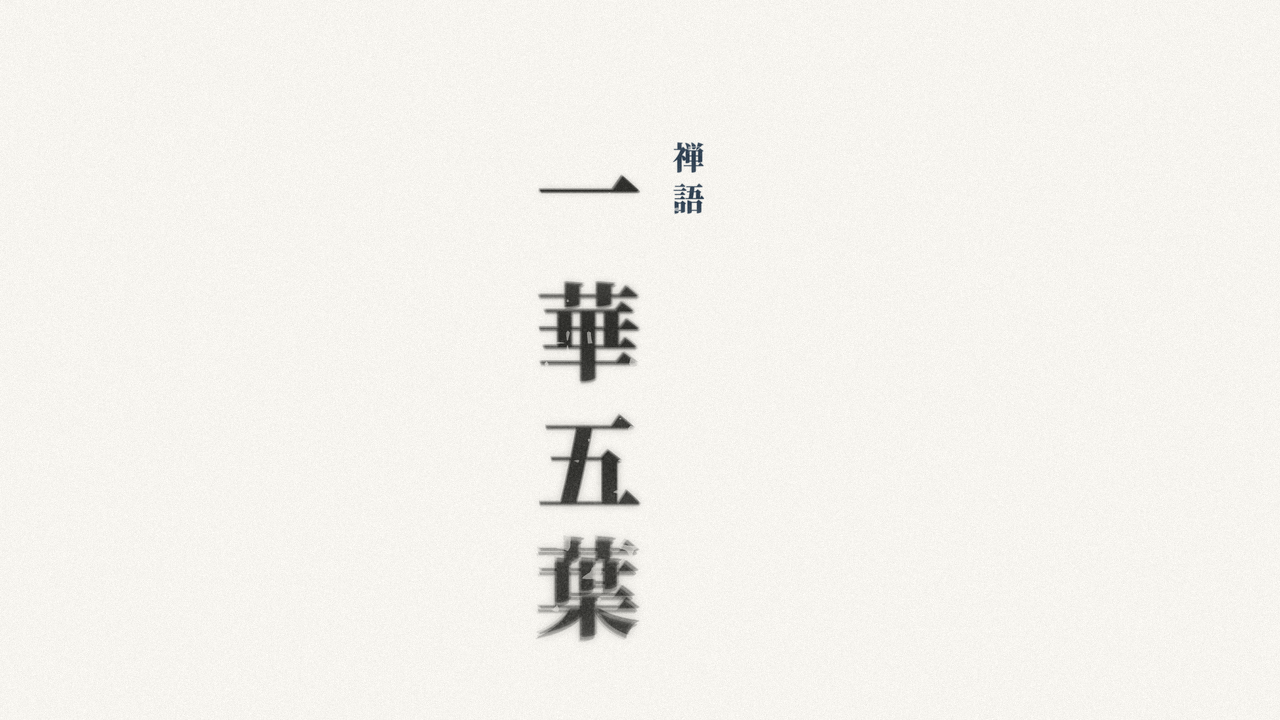
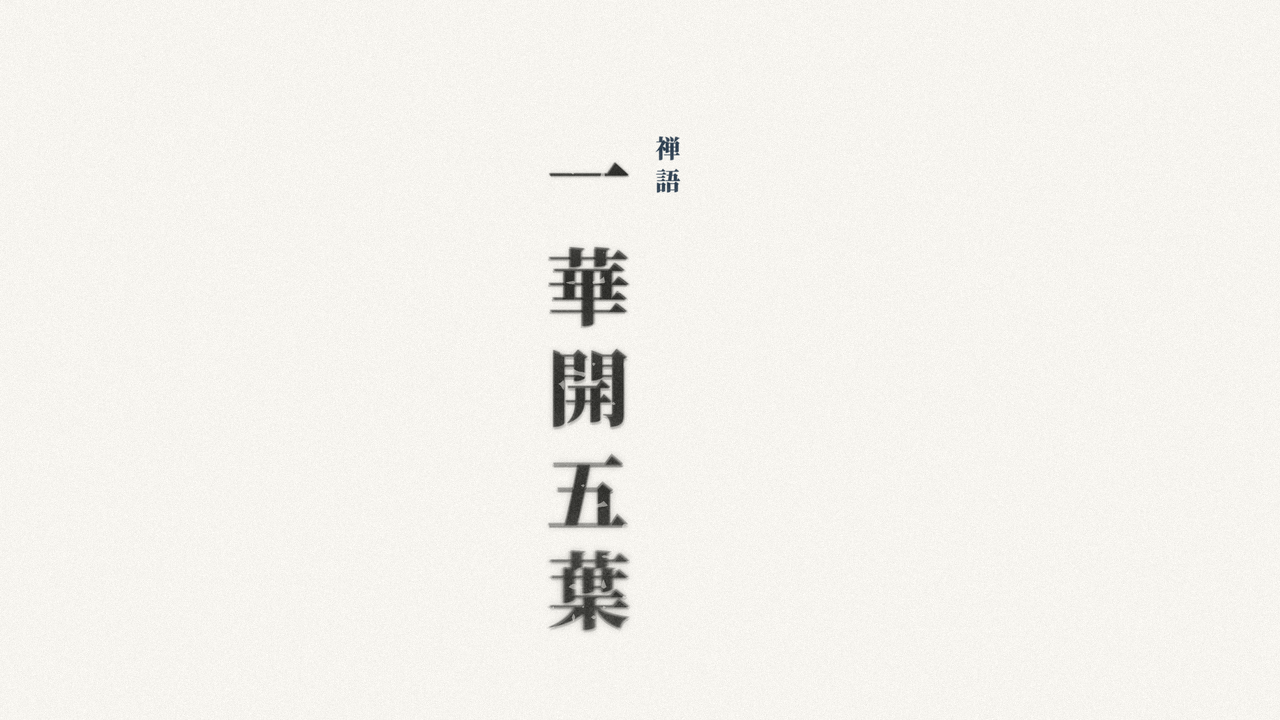
Add cover generator to repo; regenerate ikkegoyo as 一華開五葉 (5 chars)
Bring build_covers.py into tools/ (font NotoSerifCJK-Black, deps
numpy/scipy/Pillow), made runnable per-slug and writing to
articles/covers/. Regenerate the ikkegoyo cover with the full phrase
一華開五葉 in a single vertical column — the auto glyph-sizing keeps it
balanced at 1280x720. Update covers/README and the production standard
(font confirmed, generator now in-repo). Future longer phrases: judged
case by case, but keep the full phrase on the cover.

Claude-Session: https://claude.ai/code/session_01DScqs38ta8rsHtdJegZ2ah

Changed region(s): [[0.4062, 0.3361, 0.5, 0.8861], [0.4062, 0.1833, 0.5625, 0.3056]]

diff --git a/tools/build_covers.py b/tools/build_covers.py
@@ -1,0 +1,202 @@
+"""
+禅語シリーズ カバー画像生成 (雨シリーズのリファレンス画像を参考に再現)
+- 背景 #F7F5F0 / 本文墨色 #2B2B28 / アクセント #2C3E50
+- 縦書きの禅語タイトル(大)+「禅語」ラベル(小)
+- 筆致テクスチャ: 輪郭ジッター、擦れ(dry-brush)、にじみ(ink bleed)、太細(pressure taper)
+- 4倍スーパーサンプリング -> LANCZOSダウンサンプル
+- 字数に応じて字サイズを自動調整するため、縦1列のまま任意の字数に対応
+  （長い禅語はカバーも正式名のまま。表記は削らない。docs/article-production-standard.md 参照）
+
+使い方:
+  python3 tools/build_covers.py            # jobs 全件を articles/covers/ に生成
+  python3 tools/build_covers.py ikkegoyo   # 指定スラッグのみ再生成
+  COVER_OUT_DIR=/path python3 tools/build_covers.py   # 出力先を上書き
+
+依存: numpy, scipy, Pillow / フォント: NotoSerifCJK-Black.ttc
+"""
+import os
+import sys
+import numpy as np
+from PIL import Image, ImageDraw, ImageFont, ImageFilter
+import random
+
+FONT_PATH = "/usr/share/fonts/opentype/noto/NotoSerifCJK-Black.ttc"
+FONT_INDEX = 0  # Japanese
+
+BG_COLOR = (247, 245, 240)
+INK_COLOR = (43, 43, 40)
+ACCENT_COLOR = (44, 62, 80)
+
+SCALE = 4
+OUT_W, OUT_H = 1280, 720
+SS_W, SS_H = OUT_W * SCALE, OUT_H * SCALE
+
+
+def jittered_glyph(ch, size, seed, wear=0.0):
+    """1文字を高解像度でレンダリングし、輪郭ジッター・擦れ・にじみを加えたRGBA画像を返す。
+    wear: 0=ほぼ均一な筆致 / 1=最大限にかすれ・荒れた筆致(列の下方ほど強める用途)"""
+    rng = random.Random(seed)
+    pad = int(size * 0.35)
+    canvas = size + pad * 2
+    font = ImageFont.truetype(FONT_PATH, size, index=FONT_INDEX)
+
+    base = Image.new("L", (canvas, canvas), 0)
+    d = ImageDraw.Draw(base)
+    bbox = font.getbbox(ch)
+    cx = (canvas - (bbox[2] - bbox[0])) / 2 - bbox[0]
+    cy = (canvas - (bbox[3] - bbox[1])) / 2 - bbox[1]
+    d.text((cx, cy), ch, font=font, fill=255)
+
+    arr = np.array(base, dtype=np.float32) / 255.0
+
+    # --- 輪郭ジッター: ランダム位置ずらしを複数回合成してエッジを荒らす ---
+    jitter_layers = np.zeros_like(arr)
+    n_layers = 8
+    max_shift = max(1, int(size * (0.014 + 0.02 * wear)))
+    for i in range(n_layers):
+        dx = rng.randint(-max_shift, max_shift)
+        dy = rng.randint(-max_shift, max_shift)
+        shifted = np.roll(np.roll(arr, dy, axis=0), dx, axis=1)
+        jitter_layers += shifted
+    jitter_layers /= n_layers
+
+    # --- 太細(pressure taper): 縦方向グラデーションで上端・下端をわずかに薄く ---
+    ys = np.linspace(0, 1, canvas)
+    taper = 0.70 + 0.30 * np.sin(np.pi * ys)
+    taper = taper[:, None]
+    tapered = jitter_layers * taper
+
+    # --- かすれ(dry-brush): ノイズで一部を欠けさせる。wearが高いほど激しく ---
+    from scipy.ndimage import gaussian_filter as _gf
+    rng_np = np.random.RandomState(seed)
+    speckle = rng_np.rand(canvas, canvas)
+    hole_prob = 0.05 + 0.14 * wear
+    dry = np.where(speckle < hole_prob, 0.0, 1.0)
+    dry = _gf(dry, sigma=0.9 + 1.2 * wear)
+    dry_strength = 0.35 + 0.35 * wear
+    tapered = tapered * (1 - dry_strength + dry_strength * dry)
+
+    # 大粒の掠れ(筆が紙から離れる瞬間の抜け)を数カ所加える
+    coarse = rng_np.rand(max(4, canvas // 40), max(4, canvas // 40))
+    coarse_mask = np.array(
+        Image.fromarray((coarse * 255).astype(np.uint8)).resize((canvas, canvas), Image.BILINEAR)
+    ).astype(np.float32) / 255.0
+    coarse_gate = np.where(coarse_mask < 0.10 + 0.10 * wear, 0.35, 1.0)
+    tapered = tapered * coarse_gate
+
+    ink_alpha = np.clip(tapered, 0, 1)
+
+    # --- にじみ(ink bleed): ぼかした低アルファ層を下敷きにする ---
+    bleed = _gf(ink_alpha, sigma=size * (0.025 + 0.02 * wear))
+    bleed_alpha = bleed * (0.30 + 0.15 * wear)
+
+    final_alpha = np.clip(ink_alpha + bleed_alpha * (1 - ink_alpha), 0, 1)
+
+    rgba = np.zeros((canvas, canvas, 4), dtype=np.uint8)
+    rgba[..., 0] = INK_COLOR[0]
+    rgba[..., 1] = INK_COLOR[1]
+    rgba[..., 2] = INK_COLOR[2]
+    rgba[..., 3] = (final_alpha * 255).astype(np.uint8)
+
+    return Image.fromarray(rgba, mode="RGBA")
+
+
+def paste_vertical_column(canvas_img, chars, center_x, top_y, char_size, gap_ratio, color, seed_base, wear_curve=False):
+    """縦書きで文字を並べて貼り付ける。wear_curve=Trueなら下に行くほど掠れを強める"""
+    y = top_y
+    step = char_size * (1 + gap_ratio)
+    n = len(chars)
+    for i, ch in enumerate(chars):
+        wear = (i / max(1, n - 1)) * 0.85 if wear_curve else 0.0
+        glyph = jittered_glyph(ch, int(char_size), seed_base + i, wear=wear)
+        if color != INK_COLOR:
+            arr = np.array(glyph)
+            arr[..., 0] = color[0]
+            arr[..., 1] = color[1]
+            arr[..., 2] = color[2]
+            glyph = Image.fromarray(arr, mode="RGBA")
+        gw, gh = glyph.size
+        px = int(center_x - gw / 2)
+        py = int(y)
+        canvas_img.alpha_composite(glyph, (px, py))
+        y += step
+    return y
+
+
+def add_paper_grain(img, seed=1):
+    rng_np = np.random.RandomState(seed)
+    arr = np.array(img).astype(np.float32)
+    noise = rng_np.normal(0, 3.0, arr.shape[:2])
+    for c in range(3):
+        arr[..., c] += noise
+    arr = np.clip(arr, 0, 255).astype(np.uint8)
+    return Image.fromarray(arr)
+
+
+def make_cover(title_chars, label_chars, out_path, seed=42):
+    canvas = Image.new("RGBA", (SS_W, SS_H), BG_COLOR + (255,))
+
+    n = len(title_chars)
+    margin_ratio = 0.16
+    usable_h = SS_H * (1 - margin_ratio * 2)
+    gap_ratio = 0.22
+    char_size = usable_h / (n + (n - 1) * gap_ratio)
+    char_size = min(char_size, SS_H * 0.30)  # 極端に大きくなりすぎないよう上限
+
+    total_h = char_size * n + char_size * gap_ratio * (n - 1)
+    top_y = (SS_H - total_h) / 2
+    center_x = SS_W * 0.46
+
+    paste_vertical_column(canvas, title_chars, center_x, top_y, char_size, gap_ratio, INK_COLOR, seed, wear_curve=True)
+
+    # ラベル「禅語」(小・アクセントカラー・タイトルの右上)
+    label_size = char_size * 0.30
+    label_gap = 0.30
+    label_total_h = label_size * len(label_chars) + label_size * label_gap * (len(label_chars) - 1)
+    label_top = top_y + char_size * 0.15
+    label_center_x = center_x + char_size * 0.95
+    paste_vertical_column(canvas, label_chars, label_center_x, label_top, label_size, label_gap, ACCENT_COLOR, seed + 100)
+
+    # ダウンサンプル
+    final = canvas.convert("RGB").resize((OUT_W, OUT_H), Image.LANCZOS)
+    final = add_paper_grain(final, seed=seed)
+
+    # 端にインクが到達していないか検査 (numpyピクセル検査)
+    arr = np.array(final.convert("L"))
+    edge = np.concatenate([arr[0, :], arr[-1, :], arr[:, 0], arr[:, -1]])
+    assert edge.min() > 200, "インクが画像端に到達しています"
+
+    final.save(out_path, quality=95)
+    print("saved:", out_path, final.size)
+    return final
+
+
+def make_thumbnail(cover_img, out_path):
+    w, h = cover_img.size
+    side = min(w, h)
+    left = (w - side) // 2
+    top = int(h * 0.06)
+    top = min(top, h - side)
+    cropped = cover_img.crop((left, top, left + side, top + side))
+    thumb = cropped.resize((600, 600), Image.LANCZOS)
+    thumb.save(out_path, quality=95)
+    print("saved:", out_path, thumb.size)
+
+
+# slug -> (タイトル, ラベル)。タイトルはカバーも正式名のまま（表記を削らない）。
+JOBS = [
+    ("nengemisho", "拈華微笑", "禅語"),
+    ("ikkegoyo", "一華開五葉", "禅語"),
+    ("kyokasuigetsu", "鏡花水月", "禅語"),
+]
+
+if __name__ == "__main__":
+    out_dir = os.environ.get(
+        "COVER_OUT_DIR",
+        os.path.join(os.path.dirname(os.path.abspath(__file__)), "..", "articles", "covers"),
+    )
+    only = set(sys.argv[1:])  # 指定スラッグのみ。無指定なら全件
+    for i, (slug, title, label) in enumerate(JOBS):
+        if only and slug not in only:
+            continue
+        make_cover(title, label, os.path.join(out_dir, f"{slug}.png"), seed=42 + i * 17)

diff --git a/docs/article-production-standard.md b/docs/article-production-standard.md
@@ -69,13 +69,14 @@
   2 列に割る（例「一華開 ／ 五葉」）で調整する。**意味を担う字（例「開」＝花が"開く"）を落とさない。**
   （旧ルールでは「一華五葉」の 4 字に短縮していたが、意味の欠落・タイトル/検索との不一致を避けるため正式名優先に改訂。
   縦 1 列 5 字でも 1280×720 に収まることを確認済み。）
-- カバー生成の `build_covers.py` は新規スクリプトで、既存 `draw_enso` 実装とは別。
-  今後使い回すなら既存パイプラインへの統合が必要（**要確認**）。
+- カバー生成スクリプトはリポジトリ内 [`../tools/build_covers.py`](../tools/build_covers.py)。
+  `python3 tools/build_covers.py <slug>` で再生成（無指定で全件、`COVER_OUT_DIR` で出力先上書き）。
+  依存: numpy / scipy / Pillow、フォント: `NotoSerifCJK-Black.ttc`。字数に応じ字サイズを自動調整するため、
+  **縦 1 列のまま任意字数に対応**（長い禅語もカバーは正式名のまま。都度、崩れれば字サイズ/字間で調整）。
 - note のカバー推奨比率は 1280×670。note 用に流用する場合はリサイズが要る（**要確認**）。
 
 ## 要確認・未検証
 
 - ハッシュタグの運用: note のみに付けるか、Medium 側にも付けるか（Medium はタグ機能が本体・[`tag-tracker`](../articles/tag-tracker.md) で管理）。
 - 参考文献に URL を併記するか（現状は「大谷大学」「コトバンク」等の簡潔な列挙）。
-- カバーの本番標準フォント（現状 `NotoSerifCJK-Black`）。
-- `build_covers.py` の既存カバー生成パイプラインへの統合。
+- カバーの本番標準フォント（`NotoSerifCJK-Black` で確定・`tools/build_covers.py` に反映済み）。

diff --git a/articles/covers/README.md b/articles/covers/README.md
@@ -7,7 +7,7 @@
 | `un.png` | 1600×900 | 吽 / Un |
 | `aun.png` | 1600×900 | 阿吽 / A-un |
 | `nengemisho.png` | 1280×720 | 拈華微笑 / nengemisho |
-| `ikkegoyo.png` | 1280×720 | 一華開五葉 / ikkegoyo（⚠ 現物は「一華五葉」4 字表記。正式名「一華開五葉」5 字で**要・再生成**） |
+| `ikkegoyo.png` | 1280×720 | 一華開五葉 / ikkegoyo（正式名 5 字・縦 1 列で再生成済み） |
 | `kyokasuigetsu.png` | 1280×720 | 鏡花水月 / kyokasuigetsu |
 | `utekisei.png` | 1280×720 | 雨滴声 / utekisei |
 | `houu.png` | 1280×720 | 法雨 / houu |
